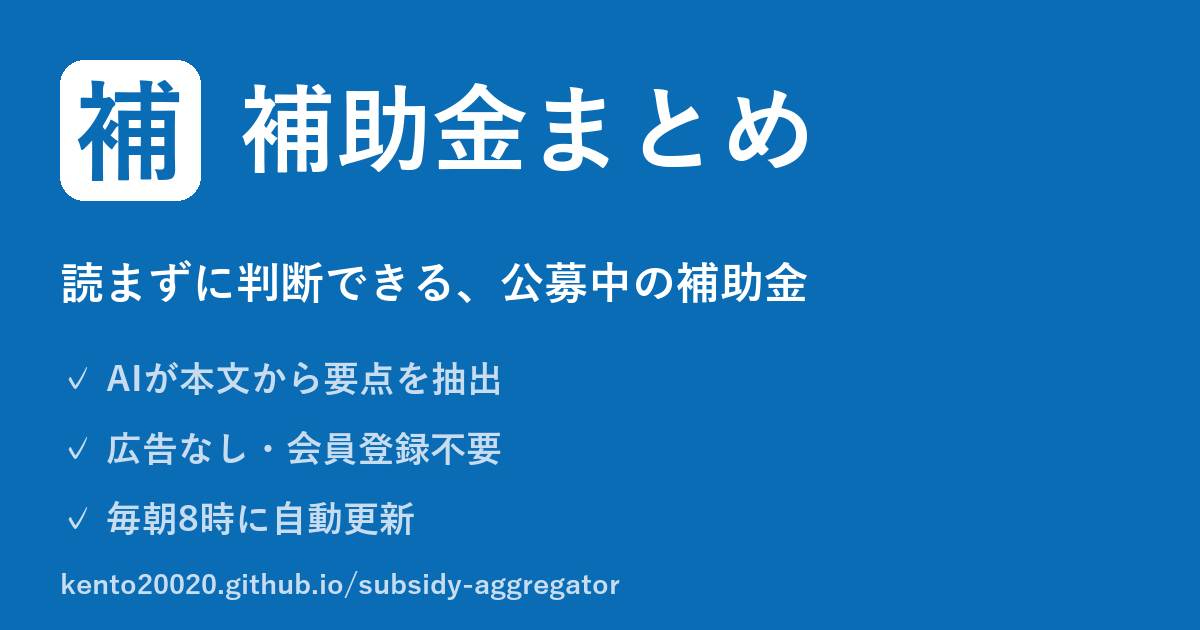
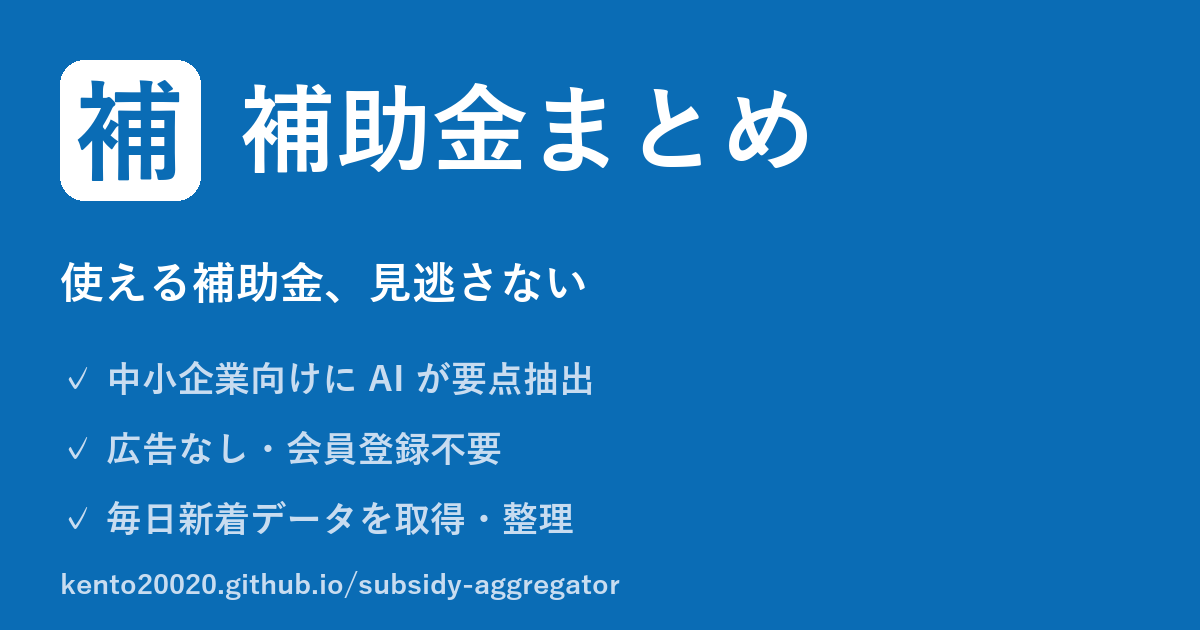
copy: align site copy with new positioning
- main copy: 「使える補助金、見逃さない」(SPEC v1.0.1)
- specify wedge user (中小企業の経営者・事業主) in description
- avoid 「毎朝届く」「自動通知」-style push wording
- regenerate OGP image with new tagline + bullets
- add .tagline css for index intro

Source of truth: subsidy-docs/SPEC_v1.0.md §1.1

Changed region(s): [[0.0308, 0.3921, 0.6783, 0.4825], [0.0925, 0.573, 0.4933, 0.6333], [0.1233, 0.7841, 0.4933, 0.8444]]

diff --git a/docs/about.html b/docs/about.html
@@ -13,14 +13,14 @@
   <meta property="og:type" content="website">
   <meta property="og:site_name" content="補助金まとめ">
   <meta property="og:title" content="このサイトについて・使い方 | 補助金まとめ">
-  <meta property="og:description" content="公募中の補助金をAIで要点抽出してまとめた、広告なし・会員登録不要のサイト。毎朝8時自動更新。">
+  <meta property="og:description" content="使える補助金、見逃さない。中小企業の経営者・事業主向けに公募中の補助金を AI が「対象/経費/書類/警告」で構造化。広告・会員登録なし。">
   <meta property="og:url" content="https://kento20020.github.io/subsidy-aggregator/about.html">
   <meta property="og:image" content="https://kento20020.github.io/subsidy-aggregator/og.png">
   <meta property="og:locale" content="ja_JP">
 
   <meta name="twitter:card" content="summary_large_image">
   <meta name="twitter:title" content="このサイトについて・使い方 | 補助金まとめ">
-  <meta name="twitter:description" content="公募中の補助金をAIで要点抽出してまとめた、広告なし・会員登録不要のサイト。毎朝8時自動更新。">
+  <meta name="twitter:description" content="使える補助金、見逃さない。中小企業の経営者・事業主向けに公募中の補助金を AI が「対象/経費/書類/警告」で構造化。広告・会員登録なし。">
   <meta name="twitter:image" content="https://kento20020.github.io/subsidy-aggregator/og.png">
 
   <link rel="stylesheet" href="style.css">
@@ -39,8 +39,9 @@
   <h1>このサイトについて</h1>
 
   <p class="lead">
+    <strong>「使える補助金、見逃さない」</strong> がコンセプト。
     日本国内の補助金・助成金（jGrants 公開API由来）を毎朝自動で収集し、
-    <strong>読まなくても3秒で判断できる形</strong> に整理した静的サイトです。
+    中小企業の経営者・事業主が「うちで使えるか」を本文を読まずに判定できる形に整理した静的サイトです。
     現在 <strong>50 件</strong> 掲載中。
   </p>
 
@@ -48,7 +49,7 @@
   <ul>
     <li><strong>広告なし・会員登録不要</strong> — トラッキング目的のCookieも使いません</li>
     <li><strong>AIが要点を整理</strong> — 公式PDFを読まなくても「対象者・対象経費・必要書類・注意点」が一目で分かります</li>
-    <li><strong>毎朝自動更新</strong> — GitHub Actions が 8:00 JST に更新を検知</li>
+    <li><strong>毎日データ更新</strong> — GitHub Actions が 8:00 JST に新着を取得・整理</li>
     <li><strong>既読カードは自動でグレーアウト</strong> — 新着・更新分だけが目立つ仕組み</li>
     <li><strong>オープンソース</strong> — コード・データ取得元すべて公開（<a href="https://github.com/kento20020/subsidy-aggregator" rel="noopener noreferrer">GitHub リポジトリ</a>）</li>
   </ul>

diff --git a/docs/index.html b/docs/index.html
@@ -13,18 +13,18 @@
   <meta property="og:type" content="website">
   <meta property="og:site_name" content="補助金まとめ">
   <meta property="og:title" content="補助金まとめ">
-  <meta property="og:description" content="公募中の補助金をAIで要点抽出してまとめた、広告なし・会員登録不要のサイト。毎朝8時自動更新。">
+  <meta property="og:description" content="使える補助金、見逃さない。中小企業の経営者・事業主向けに公募中の補助金を AI が「対象/経費/書類/警告」で構造化。広告・会員登録なし。">
   <meta property="og:url" content="https://kento20020.github.io/subsidy-aggregator/">
   <meta property="og:image" content="https://kento20020.github.io/subsidy-aggregator/og.png">
   <meta property="og:locale" content="ja_JP">
 
   <meta name="twitter:card" content="summary_large_image">
   <meta name="twitter:title" content="補助金まとめ">
-  <meta name="twitter:description" content="公募中の補助金をAIで要点抽出してまとめた、広告なし・会員登録不要のサイト。毎朝8時自動更新。">
+  <meta name="twitter:description" content="使える補助金、見逃さない。中小企業の経営者・事業主向けに公募中の補助金を AI が「対象/経費/書類/警告」で構造化。広告・会員登録なし。">
   <meta name="twitter:image" content="https://kento20020.github.io/subsidy-aggregator/og.png">
 
   <link rel="stylesheet" href="style.css">
-<script type="application/ld+json">{"@context": "https://schema.org", "@graph": [{"@type": "WebSite", "description": "\u516c\u52df\u4e2d\u306e\u88dc\u52a9\u91d1\u3092AI\u3067\u8981\u70b9\u62bd\u51fa\u3057\u3066\u307e\u3068\u3081\u305f\u3001\u5e83\u544a\u306a\u3057\u30fb\u4f1a\u54e1\u767b\u9332\u4e0d\u8981\u306e\u30b5\u30a4\u30c8\u3002\u6bce\u671d8\u6642\u81ea\u52d5\u66f4\u65b0\u3002", "inLanguage": "ja", "name": "\u88dc\u52a9\u91d1\u307e\u3068\u3081", "url": "https://kento20020.github.io/subsidy-aggregator/"}, {"@type": "ItemList", "itemListElement": [{"@type": "ListItem", "name": "\u3010\u74b0\u5883\u7701\u3011\u74b0\u5883\u4fdd\u5168\u7814\u7a76\u8cbb\u88dc\u52a9\u91d1\uff08\u30a4\u30ce\u30d9\u30fc\u30b7\u30e7\u30f3\u5275\u51fa\u306e\u305f\u3081\u306e\u74b0\u5883\u30b9\u30bf\u30fc\u30c8\u30a2\u30c3\u30d7\u7814\u7a76\u958b\u767a\u652f\u63f4\u4e8b\u696d\uff09\u30d5\u30a7\u30fc\u30ba3\uff08\u5927\u898f\u6a21\u6280\u8853\u958b\u767a\u5b9f\u8a3c\uff09\u652f\u63f4\u4e8b\u696d", "position": 1, "url": "https://kento20020.github.io/subsidy-aggregator/subsidies/jgrants-S-00009121.html"}, {"@type": "ListItem", "name": "\u3010\u74b0\u5883\u7701\u3011\u74b0\u5883\u4fdd\u5168\u7814\u7a76\u8cbb\u88dc\u52a9\u91d1\uff08\u30a4\u30ce\u30d9\u30fc\u30b7\u30e7\u30f3\u5275\u51fa\u306e\u305f\u3081\u306e\u74b0\u5883\u30b9\u30bf\u30fc\u30c8\u30a2\u30c3\u30d7\u7814\u7a76\u958b\u767a\u652f\u63f4\u4e8b\u696d\uff09\u30d5\u30a7\u30fc\u30ba2\uff08R\u0026D\uff09\u652f\u63f4\u4e8b\u696d", "position": 2, "url": "https://kento20020.github.io/subsidy-aggregator/subsidies/jgrants-S-00009120.html"}, {"@type": "ListItem", "name": "\u3010\u74b0\u5883\u7701\u3011\u74b0\u5883\u4fdd\u5168\u7814\u7a76\u8cbb\u88dc\u52a9\u91d1\uff08\u30a4\u30ce\u30d9\u30fc\u30b7\u30e7\u30f3\u5275\u51fa\u306e\u305f\u3081\u306e\u74b0\u5883\u30b9\u30bf\u30fc\u30c8\u30a2\u30c3\u30d7\u7814\u7a76\u958b\u767a\u652f\u63f4\u4e8b\u696d\uff09\u30d5\u30a7\u30fc\u30ba1\uff08F/S\u30fbPoC\uff09\u652f\u63f4\u4e8b\u696d", "position": 3, "url": "https://kento20020.github.io/subsidy-aggregator/subsidies/jgrants-S-00009118.html"}, {"@type": "ListItem", "name": "\u3010\u9577\u91ce\u770c\u3011\u4ee4\u548c\uff18\u5e74\u5ea6\u4e2d\u5c0f\u4f01\u696d\u7b49\u6d77\u5916\u5c55\u958b\u652f\u63f4\u4e8b\u696d\u8cbb\u88dc\u52a9\u91d1\uff08\u4e2d\u5c0f\u4f01\u696d\u7b49\u5916\u56fd\u51fa\u9858\u652f\u63f4\u4e8b\u696d\uff09", "position": 4, "url": "https://kento20020.github.io/subsidy-aggregator/subsidies/jgrants-S-00009065.html"}, {"@type": "ListItem", "name": "\u3010\u5343\u8449\u5e02\u7523\u696d\u632f\u8208\u8ca1\u56e3\u3011\u4ee4\u548c8\u5e74\u5ea6_\u4e2d\u5c0f\u4f01\u696d\u7b49\u6d77\u5916\u5c55\u958b\u652f\u63f4\u4e8b\u696d\u8cbb\u88dc\u52a9\u91d1\uff08\u6d77\u5916\u51fa\u9858\u652f\u63f4\u4e8b\u696d\uff09", "position": 5, "url": "https://kento20020.github.io/subsidy-aggregator/subsidies/jgrants-S-00009033.html"}, {"@type": "ListItem", "name": "\u3010\u4e09\u91cd\u770c \u9234\u9e7f\u5e02\u3011\u4ee4\u548c8\u5e74\u5ea6\u5275\u696d\u4fc3\u9032\u88dc\u52a9\u91d1", "position": 6, "url": "https://kento20020.github.io/subsidy-aggregator/subsidies/jgrants-S-00009101.html"}, {"@type": "ListItem", "name": "\u4ee4\u548c8\u5e74\u5ea6_\u30a2\u30a4\u30cc\u4e2d\u5c0f\u4f01\u696d\u632f\u8208\u5bfe\u7b56\u4e8b\u696d\u8cbb\u88dc\u52a9\u91d1", "position": 7, "url": "https://kento20020.github.io/subsidy-aggregator/subsidies/jgrants-S-00009099.html"}, {"@type": "ListItem", "name": "\u3010\u5c71\u53e3\u770c\u3011\u4ee4\u548c8\u5e74\u5ea6_\u4e2d\u5c0f\u4f01\u696d\u7b49\u6d77\u5916\u5c55\u958b\u652f\u63f4\u4e8b\u696d\u8cbb\u88dc\u52a9\u91d1\uff08\u6d77\u5916\u51fa\u9858\u652f\u63f4\u4e8b\u696d\uff09", "position": 8, "url": "https://kento20020.github.io/subsidy-aggregator/subsidies/jgrants-S-00009079.html"}, {"@type": "ListItem", "name": "\u3010\u5cf6\u6839\u770c\u3011\u4ee4\u548c8\u5e74\u5ea6_\u4e2d\u5c0f\u4f01\u696d\u7b49\u6d77\u5916\u5c55\u958b\u652f\u63f4\u4e8b\u696d\u8cbb\u88dc\u52a9\u91d1\uff08\u6d77\u5916\u51fa\u9858\u652f\u63f4\u4e8b\u696d\uff09", "position": 9, "url": "https://kento20020.github.io/subsidy-aggregator/subsidies/jgrants-S-00009095.html"}, {"@type": "ListItem", "name": "\u4ee4\u548c\uff18\u5e74\u5ea6\u300c\u5730\u57df\u306e\u4e2d\u5805\u30fb\u4e2d\u6838\u4f01\u696d\u652f\u63f4\u4e8b\u696d\uff08\u5730\u57df\u306e\u4eba\u4e8b\u90e8\u652f\u63f4\u4e8b\u696d\uff09\u300d\u88dc\u52a9\u4e8b\u696d\u8005\u516c\u52df", "position": 10, "url": "https://kento20020.github.io/subsidy-aggregator/subsidies/jgrants-S-00009061.html"}, {"@type": "ListItem", "name": "\u3010\u57fc\u7389\u770c\u3011\u4ee4\u548c\uff18\u5e74\u5ea6_\u4e2d\u5c0f\u4f01\u696d\u7b49\u6d77\u5916\u5c55\u958b\u652f\u63f4\u4e8b\u696d\u8cbb\u88dc\u52a9\u91d1\uff08\u6d77\u5916\u51fa\u9858\u652f\u63f4\u4e8b\u696d\uff09", "position": 11, "url": "https://kento20020.github.io/subsidy-aggregator/subsidies/jgrants-S-00009060.html"}, {"@type": "ListItem", "name": "\u3010\u308f\u304b\u3084\u307e\u7523\u696d\u632f\u8208\u8ca1\u56e3 \u3011\u4ee4\u548c\uff18\u5e74\u5ea6_\u4e2d\u5c0f\u4f01\u696d\u7b49\u6d77\u5916\u5c55\u958b\u652f\u63f4\u4e8b\u696d\u8cbb\u88dc\u52a9\u91d1\uff08\u6d77\u5916\u51fa\u9858\u652f\u63f4\u4e8b\u696d\uff09", "position": 12, "url": "https://kento20020.github.io/subsidy-aggregator/subsidies/jgrants-S-00009057.html"}, {"@type": "ListItem", "name": "\u591a\u6469\u5e02\u3075\u308b\u3055\u3068\u7d0d\u7a0e\u3092\u6d3b\u7528\u3057\u305f\u8cc7\u91d1\u8abf\u9054\u652f\u63f4\u4e8b\u696d\u88dc\u52a9\u91d1", "position": 13, "url": "https://kento20020.github.io/subsidy-aggregator/subsidies/jgrants-S-00009056.html"}, {"@type": "ListItem", "name": "\u3010\u9ce5\u53d6\u770c\u3011\u4ee4\u548c\uff18\u5e74\u5ea6_\u4e2d\u5c0f\u4f01\u696d\u7b49\u6d77\u5916\u5c55\u958b\u652f\u63f4\u4e8b\u696d\u8cbb\u88dc\u52a9\u91d1\uff08\u6d77\u5916\u51fa\u9858\u652f\u63f4\u4e8b\u696d\uff09", "position": 14, "url": "https://kento20020.github.io/subsidy-aggregator/subsidies/jgrants-S-00009054.html"}, {"@type": "ListItem", "name": "2026\u5e74\u5ea6\u300c\u4e2d\u5c0f\u4f01\u696d\u7af6\u4e89\u529b\u5f37\u5316\u4fc3\u9032\u4e8b\u696d\u696d\u300d\uff08\u5e02\u5834\u5bfe\u5fdc\u578b\u88fd\u54c1\u958b\u767a\u652f\u63f4\u4e8b\u696d\u3010\u4e00\u822c\u3011\uff09", "position": 15, "url": "https://kento20020.github.io/subsidy-aggregator/subsidies/jgrants-S-00009047.html"}, {"@type": "ListItem", "name": "2026\u5e74\u5ea6\u300c\u4e2d\u5c0f\u4f01\u696d\u7af6\u4e89\u529b\u5f37\u5316\u4fc3\u9032\u4e8b\u696d\u696d\u300d\uff08\u7523\u696d\u4eba\u6750\u80b2\u6210\u652f\u63f4\u4e8b\u696d\u3010\u30c6\u30ec\u30ef\u30fc\u30af\u5c0e\u5165\u3011\uff09", "position": 16, "url": "https://kento20020.github.io/subsidy-aggregator/subsidies/jgrants-S-00009045.html"}, {"@type": "ListItem", "name": "2026\u5e74\u5ea6\u300c\u4e2d\u5c0f\u4f01\u696d\u7af6\u4e89\u529b\u5f37\u5316\u4fc3\u9032\u4e8b\u696d\u696d\u300d\uff08\u7523\u696d\u4eba\u6750\u80b2\u6210\u652f\u63f4\u4e8b\u696d\u3010\u6d3e\u9063\u3011\uff09", "position": 17, "url": "https://kento20020.github.io/subsidy-aggregator/subsidies/jgrants-S-00009041.html"}, {"@type": "ListItem", "name": "2026\u5e74\u5ea6\u300c\u4e2d\u5c0f\u4f01\u696d\u7af6\u4e89\u529b\u5f37\u5316\u4fc3\u9032\u4e8b\u696d\u696d\u300d\uff08\u30de\u30fc\u30b1\u30c6\u30a3\u30f3\u30b0\u652f\u63f4\u4e8b\u696d\uff09", "position": 18, "url": "https://kento20020.github.io/subsidy-aggregator/subsidies/jgrants-S-00009038.html"}, {"@type": "ListItem", "name": "\u3010\u4eac\u90fd\u7523\u696d21\u3011\u4ee4\u548c8\u5e74\u5ea6_\u4e2d\u5c0f\u4f01\u696d\u7b49\u6d77\u5916\u5c55\u958b\u652f\u63f4\u4e8b\u696d\u8cbb\u88dc\u52a9\u91d1\uff08\u6d77\u5916\u51fa\u9858\u652f\u63f4\u4e8b\u696d\uff09", "position": 19, "url": "https://kento20020.github.io/subsidy-aggregator/subsidies/jgrants-S-00009032.html"}, {"@type": "ListItem", "name": "\u3010\u6ecb\u8cc0\u770c\u7523\u696d\u652f\u63f4\u30d7\u30e9\u30b6\u3011\u4ee4\u548c8\u5e74\u5ea6_\u4e2d\u5c0f\u4f01\u696d\u7b49\u6d77\u5916\u5c55\u958b\u652f\u63f4\u4e8b\u696d\u8cbb\u88dc\u52a9\u91d1\uff08\u6d77\u5916\u51fa\u9858\u652f\u63f4\u4e8b\u696d\uff09", "position": 20, "url": "https://kento20020.github.io/subsidy-aggregator/subsidies/jgrants-S-00009030.html"}, {"@type": "ListItem", "name": "\u3010\u3075\u304f\u3044\u7523\u696d\u652f\u63f4\u30bb\u30f3\u30bf\u30fc\u3011\u4ee4\u548c\uff18\u5e74\u5ea6_\u4e2d\u5c0f\u4f01\u696d\u7b49\u6d77\u5916\u5c55\u958b\u652f\u63f4\u4e8b\u696d\u8cbb\u88dc\u52a9\u91d1\uff08\u6d77\u5916\u51fa\u9858\u652f\u63f4\u4e8b\u696d\uff09", "position": 21, "url": "https://kento20020.github.io/subsidy-aggregator/subsidies/jgrants-S-00009029.html"}, {"@type": "ListItem", "name": "\u3010\u8fb2\u6797\u6c34\u7523\u7701\u3011\u98df\u54c1\u7b49\u7269\u6d41\u5408\u7406\u5316\u7dca\u6025\u5bfe\u7b56\u4e8b\u696d\u306e\u3046\u3061\u8f38\u51fa\u7269\u6d41\u69cb\u7bc9\u4e8b\u696d\uff08\u9593\u63a5\u88dc\u52a9\u4e8b\u696d\u8005\u516c\u52df\uff09", "position": 22, "url": "https://kento20020.github.io/subsidy-aggregator/subsidies/jgrants-S-00009015.html"}, {"@type": "ListItem", "name": "\u3010\u8fb2\u6797\u6c34\u7523\u7701\u3011\u98df\u54c1\u7b49\u7269\u6d41\u5408\u7406\u5316\u7dca\u6025\u5bfe\u7b56\u4e8b\u696d\u306e\u3046\u3061\u7269\u6d41\u751f\u7523\u6027\u5411\u4e0a\u63a8\u9032\u4e8b\u696d\uff08\u9593\u63a5\u88dc\u52a9\u4e8b\u696d\u8005\u516c\u52df\uff09", "position": 23, "url": "https://kento20020.github.io/subsidy-aggregator/subsidies/jgrants-S-00009014.html"}, {"@type": "ListItem", "name": "\u4ee4\u548c8\u5e74\u5ea6\u30102\u5e74\u76ee\u7533\u8acb\u7528\u3011ES\uff08\u793e\u54e1\u6e80\u8db3\u5ea6\uff09\u5411\u4e0a\u306b\u3088\u308b\u82e5\u624b\u4eba\u6750\u78ba\u4fdd\u30fb\u5b9a\u7740\u4e8b\u696d\u52a9\u6210\u91d1", "position": 24, "url": "https://kento20020.github.io/subsidy-aggregator/subsidies/jgrants-S-00009011.html"}, {"@type": "ListItem", "name": "\u4ee4\u548c8\u5e74\u5ea6\u30103\u5e74\u76ee\u7533\u8acb\u7528\u3011ES\uff08\u793e\u54e1\u6e80\u8db3\u5ea6\uff09\u5411\u4e0a\u306b\u3088\u308b\u82e5\u624b\u4eba\u6750\u78ba\u4fdd\u30fb\u5b9a\u7740\u4e8b\u696d\u52a9\u6210\u91d1", "position": 25, "url": "https://kento20020.github.io/subsidy-aggregator/subsidies/jgrants-S-00009009.html"}, {"@type": "ListItem", "name": "\u3010\u5343\u8449\u770c\u3011\u4ee4\u548c\uff18\u5e74\u5ea6\u300c\u4e2d\u5c0f\u4f01\u696d\u7b49\u6d77\u5916\u5c55\u958b\u652f\u63f4\u4e8b\u696d\u8cbb\u88dc\u52a9\u91d1\uff08\u6d77\u5916\u51fa\u9858\u652f\u63f4\u4e8b\u696d\uff09\u300d", "position": 26, "url": "https://kento20020.github.io/subsidy-aggregator/subsidies/jgrants-S-00008999.html"}, {"@type": "ListItem", "name": "\u3010\u7d4c\u6e08\u7523\u696d\u7701\u3011\u3082\u306e\u3065\u304f\u308a\u30fb\u5546\u696d\u30fb\u30b5\u30fc\u30d3\u30b9\u751f\u7523\u6027\u5411\u4e0a\u4fc3\u9032\u88dc\u52a9\u91d1\uff0822\u6b21\u7de0\u5207\uff09", "position": 27, "url": "https://kento20020.github.io/subsidy-aggregator/subsidies/jgrants-S-00008989.html"}, {"@type": "ListItem", "name": "\u4ee4\u548c8\u5e74\u5ea6\u300cGX\u6226\u7565\u5730\u57df\u5236\u5ea6\u306b\u304a\u3051\u308b\u30b3\u30f3\u30d3\u30ca\u30fc\u30c8\u7b49\u518d\u751f\u306b\u5411\u3051\u305f \u4e8b\u696d\u5316\u4fc3\u9032\u4e8b\u696d\u300d\u306b\u4fc2\u308b\u9593\u63a5\u88dc\u52a9\u4e8b\u696d\u8005\u306e\u516c\u52df", "position": 28, "url": "https://kento20020.github.io/subsidy-aggregator/subsidies/jgrants-S-00008982.html"}, {"@type": "ListItem", "name": "\u3010\u4ee4\u548c\uff18\u5e74\u5ea6\u5f53\u521d\u3011\u56fd\u7acb\u516c\u5712\u7b49\u591a\u8a00\u8a9e\u89e3\u8aac\u7b49\u6574\u5099\u4e8b\u696d\uff08\u56fd\u7acb\u516c\u5712\u7b49\u8cc7\u6e90\u6574\u5099\u4e8b\u696d\u8cbb\u88dc\u52a9\u91d1\uff09", "position": 29, "url": "https://kento20020.github.io/subsidy-aggregator/subsidies/jgrants-S-00008981.html"}, {"@type": "ListItem", "name": "\u3010\u4e8b\u524d\u7740\u624b\u5c4a\u51fa\u3011\u4ee4\u548c\uff18\u5e74\u5ea6GX\u6226\u7565\u5730\u57df\u5236\u5ea6\u306b\u304a\u3051\u308b\u30b3\u30f3\u30d3\u30ca\u30fc\u30c8\u7b49\u518d\u751f\u306b\u5411\u3051\u305f\u4e8b\u696d\u5316\u4fc3\u9032\u4e8b\u696d\uff08\u30b3\u30f3\u30d3\u30ca\u30fc\u30c8\u7b49\u518d\u751fPre-FEED\u88dc\u52a9\u91d1\uff09", "position": 30, "url": "https://kento20020.github.io/subsidy-aggregator/subsidies/jgrants-S-00008980.html"}, {"@type": "ListItem", "name": "\u798f\u5cf6\u770c\u4e2d\u5c0f\u4f01\u696d\u7279\u5225\u9ad8\u5727\u96fb\u6c17\u6599\u91d1\u652f\u63f4\u88dc\u52a9\u91d1", "position": 31, "url": "https://kento20020.github.io/subsidy-aggregator/subsidies/jgrants-S-00008971.html"}, {"@type": "ListItem", "name": "2026\u5e74\u5ea6\u300c\u6d77\u5916\u51fa\u9858\u652f\u63f4\u4e8b\u696d\u300d", "position": 32, "url": "https://kento20020.github.io/subsidy-aggregator/subsidies/jgrants-S-00008969.html"}, {"@type": "ListItem", "name": "\u53e4\u8cc0\u5e02\u4e2d\u5c0f\u4f01\u696d\u7b49\u5411\u3051\u592a\u967d\u5149\u767a\u96fb\u8a2d\u5099\u5c0e\u5165\u88dc\u52a9\u91d1", "position": 33, "url": "https://kento20020.github.io/subsidy-aggregator/subsidies/jgrants-S-00008944.html"}, {"@type": "ListItem", "name": "\u53e4\u8cc0\u5e02\u6e29\u5ba4\u52b9\u679c\u30ac\u30b9\u6392\u51fa\u91cf\u53ef\u8996\u5316\u30b7\u30b9\u30c6\u30e0\u5c0e\u5165\u8cbb\u88dc\u52a9\u91d1", "position": 34, "url": "https://kento20020.github.io/subsidy-aggregator/subsidies/jgrants-S-00008943.html"}, {"@type": "ListItem", "name": "\u3010\u611b\u77e5\u770c\u3011\u4ee4\u548c\uff18\u5e74\u5ea6_\u4e2d\u5c0f\u4f01\u696d\u7b49\u6d77\u5916\u5c55\u958b\u652f\u63f4\u4e8b\u696d\u8cbb\u88dc\u52a9\u91d1\uff08\u6d77\u5916\u51fa\u9858\u652f\u63f4\u4e8b\u696d\uff09", "position": 35, "url": "https://kento20020.github.io/subsidy-aggregator/subsidies/jgrants-S-00008921.html"}, {"@type": "ListItem", "name": "\u4ee4\u548c\uff18\u5e74\u5ea6\u30d8\u30eb\u30b9\u30b1\u30a2\u7523\u696d\u56fd\u969b\u5c55\u958b\u63a8\u9032\u4e8b\u696d\u8cbb\u88dc\u52a9\u91d1", "position": 36, "url": "https://kento20020.github.io/subsidy-aggregator/subsidies/jgrants-S-00008920.html"}, {"@type": "ListItem", "name": "\u3010\u5948\u826f\u770c\u5730\u57df\u7523\u696d\u632f\u8208\u30bb\u30f3\u30bf\u30fc\u3011\u4ee4\u548c8\u5e74\u5ea6_\u4e2d\u5c0f\u4f01\u696d\u7b49\u6d77\u5916\u5c55\u958b\u652f\u63f4\u4e8b\u696d\u8cbb\u88dc\u52a9\u91d1\uff08\u6d77\u5916\u51fa\u9858\u652f\u63f4\u4e8b\u696d\uff09", "position": 37, "url": "https://kento20020.github.io/subsidy-aggregator/subsidies/jgrants-S-00008919.html"}, {"@type": "ListItem", "name": "\u3010\u798f\u5ca1\u770c\u3011\u4ee4\u548c8\u5e74\u5ea6_\u4e2d\u5c0f\u4f01\u696d\u7b49\u6d77\u5916\u5c55\u958b\u652f\u63f4\u4e8b\u696d\u8cbb\u88dc\u52a9\u91d1\uff08\u6d77\u5916\u51fa\u9858\u652f\u63f4\u4e8b\u696d\uff09", "position": 38, "url": "https://kento20020.github.io/subsidy-aggregator/subsidies/jgrants-S-00008918.html"}, {"@type": "ListItem", "name": "\u3010\u4ee4\u548c\uff18\u5e74\u5ea6\u5f53\u521d\u3011\u56fd\u7acb\u516c\u5712\u7b49\u5229\u7528\u62e0\u70b9\u6ede\u5728\u74b0\u5883\u7b49\u4e0a\u8cea\u5316\u4e8b\u696d\uff08\u56fd\u7acb\u516c\u5712\u7b49\u8cc7\u6e90\u6574\u5099\u4e8b\u696d\u8cbb\u88dc\u52a9\u91d1\uff09", "position": 39, "url": "https://kento20020.github.io/subsidy-aggregator/subsidies/jgrants-S-00008910.html"}, {"@type": "ListItem", "name": "\u3084\u307e\u3050\u3061\u81ea\u52d5\u8eca\u7523\u696d\u96fb\u52d5\u5316\u30a4\u30ce\u30d9\u30fc\u30b7\u30e7\u30f3\u7b49\u4fc3\u9032\u88dc\u52a9\u91d1", "position": 40, "url": "https://kento20020.github.io/subsidy-aggregator/subsidies/jgrants-S-00008905.html"}, {"@type": "ListItem", "name": "\u3084\u307e\u3050\u3061\u81ea\u52d5\u8eca\u7523\u696d\u96fb\u52d5\u5316\u30a4\u30ce\u30d9\u30fc\u30b7\u30e7\u30f3\u7b49\u4fc3\u9032\u88dc\u52a9\u91d1", "position": 41, "url": "https://kento20020.github.io/subsidy-aggregator/subsidies/jgrants-S-00008904.html"}, {"@type": "ListItem", "name": "\u3010\u5c90\u961c\u770c\u3011\u4ee4\u548c\uff18\u5e74\u5ea6_\u4e2d\u5c0f\u4f01\u696d\u7b49\u6d77\u5916\u5c55\u958b\u652f\u63f4\u4e8b\u696d\u8cbb\u88dc\u52a9\u91d1\uff08\u6d77\u5916\u51fa\u9858\u652f\u63f4\u4e8b\u696d\uff09", "position": 42, "url": "https://kento20020.github.io/subsidy-aggregator/subsidies/jgrants-S-00008888.html"}, {"@type": "ListItem", "name": "\u4ee4\u548c\uff18\u5e74\u5ea6 \u6c34\u529b\u767a\u96fb\u5c0e\u5165\u4fc3\u9032\u652f\u63f4\u4e8b\u696d\u8cbb\u88dc\u52a9\u91d1\uff08\u65e2\u5b58\u8a2d\u5099\u6709\u52b9\u6d3b\u7528\u5f37\u5316\u652f\u63f4\u4e8b\u696d\uff09\u516c\u52df", "position": 43, "url": "https://kento20020.github.io/subsidy-aggregator/subsidies/jgrants-S-00008881.html"}, {"@type": "ListItem", "name": "\u4ee4\u548c\uff18\u5e74\u5ea6\u56fd\u969b\u30eb\u30fc\u30eb\u5f62\u6210\u30fb\u5e02\u5834\u5275\u9020\u578b\u6a19\u6e96\u5316\u63a8\u9032\u4e8b\u696d\u8cbb\u88dc\u52a9\u91d1", "position": 44, "url": "https://kento20020.github.io/subsidy-aggregator/subsidies/jgrants-S-00008879.html"}, {"@type": "ListItem", "name": "\u3010\u9759\u5ca1\u770c\u3011\u4ee4\u548c8\u5e74\u5ea6_\u4e2d\u5c0f\u4f01\u696d\u7b49\u6d77\u5916\u5c55\u958b\u652f\u63f4\u4e8b\u696d\u8cbb\u88dc\u52a9\u91d1\uff08\u6d77\u5916\u51fa\u9858\u652f\u63f4\u4e8b\u696d\uff09", "position": 45, "url": "https://kento20020.github.io/subsidy-aggregator/subsidies/jgrants-S-00008876.html"}, {"@type": "ListItem", "name": "\u4ee4\u548c\uff18\u5e74\u5ea6\u300c\u6c34\u529b\u767a\u96fb\u5c0e\u5165\u4fc3\u9032\u652f\u63f4\u4e8b\u696d\u8cbb\u88dc\u52a9\u91d1\uff08\u4e8b\u696d\u6027\u8a55\u4fa1\u652f\u63f4\u4e8b\u696d\uff09\u300d\uff08\u65b0\u898f\u4e8b\u696d \uff11\u6b21\u7de0\u5207\u5206\uff09", "position": 46, "url": "https://kento20020.github.io/subsidy-aggregator/subsidies/jgrants-S-00008874.html"}, {"@type": "ListItem", "name": "\u4ee4\u548c\uff18\u5e74\u5ea6\u7cbe\u795e\u79d1\u533b\u7642\u4f53\u5236\u78ba\u4fdd\u7814\u4fee\u4e8b\u696d\u8cbb\u88dc\u52a9\u91d1", "position": 47, "url": "https://kento20020.github.io/subsidy-aggregator/subsidies/jgrants-S-00008872.html"}, {"@type": "ListItem", "name": "\u5317\u4e5d\u5dde\u5e02\u74b0\u5883\u672a\u6765\u30d3\u30b8\u30cd\u30b9\u5275\u51fa\u52a9\u6210\u91d1", "position": 48, "url": "https://kento20020.github.io/subsidy-aggregator/subsidies/jgrants-S-00008861.html"}, {"@type": "ListItem", "name": "\u4ee4\u548c\uff18\u5e74\u5ea6\u30b9\u30dd\u30fc\u30c4\u30a8\u30f3\u30bf\u30fc\u30c6\u30a4\u30f3\u30e1\u30f3\u30c8\u30fb\u30b3\u30f3\u30c6\u30f3\u30c4\u6d77\u5916\u5c55\u958b\u652f\u63f4\u4e8b\u696d\u8cbb\u88dc\u52a9\u91d1", "position": 49, "url": "https://kento20020.github.io/subsidy-aggregator/subsidies/jgrants-S-00008855.html"}, {"@type": "ListItem", "name": "\u4ee4\u548c\uff18\u5e74\u5ea6 \u30b3\u30fc\u30eb\u30c9\u30c1\u30a7\u30fc\u30f3\u3092\u652f\u3048\u308b\u51b7\u51cd\u51b7\u8535\u6a5f\u5668\u306e\u8131\u30d5\u30ed\u30f3\u30fb\u8131\u70ad\u7d20\u5316\u63a8\u9032\u4e8b\u696d", "position": 50, "url": "https://kento20020.github.io/subsidy-aggregator/subsidies/jgrants-S-00008854.html"}], "name": "\u88dc\u52a9\u91d1\u307e\u3068\u3081 \u88dc\u52a9\u91d1\u4e00\u89a7", "numberOfItems": 50}]}</script>
+<script type="application/ld+json">{"@context": "https://schema.org", "@graph": [{"@type": "WebSite", "description": "\u4f7f\u3048\u308b\u88dc\u52a9\u91d1\u3001\u898b\u9003\u3055\u306a\u3044\u3002\u4e2d\u5c0f\u4f01\u696d\u306e\u7d4c\u55b6\u8005\u30fb\u4e8b\u696d\u4e3b\u5411\u3051\u306b\u516c\u52df\u4e2d\u306e\u88dc\u52a9\u91d1\u3092 AI \u304c\u300c\u5bfe\u8c61/\u7d4c\u8cbb/\u66f8\u985e/\u8b66\u544a\u300d\u3067\u69cb\u9020\u5316\u3002\u5e83\u544a\u30fb\u4f1a\u54e1\u767b\u9332\u306a\u3057\u3002", "inLanguage": "ja", "name": "\u88dc\u52a9\u91d1\u307e\u3068\u3081", "url": "https://kento20020.github.io/subsidy-aggregator/"}, {"@type": "ItemList", "itemListElement": [{"@type": "ListItem", "name": "\u3010\u74b0\u5883\u7701\u3011\u74b0\u5883\u4fdd\u5168\u7814\u7a76\u8cbb\u88dc\u52a9\u91d1\uff08\u30a4\u30ce\u30d9\u30fc\u30b7\u30e7\u30f3\u5275\u51fa\u306e\u305f\u3081\u306e\u74b0\u5883\u30b9\u30bf\u30fc\u30c8\u30a2\u30c3\u30d7\u7814\u7a76\u958b\u767a\u652f\u63f4\u4e8b\u696d\uff09\u30d5\u30a7\u30fc\u30ba3\uff08\u5927\u898f\u6a21\u6280\u8853\u958b\u767a\u5b9f\u8a3c\uff09\u652f\u63f4\u4e8b\u696d", "position": 1, "url": "https://kento20020.github.io/subsidy-aggregator/subsidies/jgrants-S-00009121.html"}, {"@type": "ListItem", "name": "\u3010\u74b0\u5883\u7701\u3011\u74b0\u5883\u4fdd\u5168\u7814\u7a76\u8cbb\u88dc\u52a9\u91d1\uff08\u30a4\u30ce\u30d9\u30fc\u30b7\u30e7\u30f3\u5275\u51fa\u306e\u305f\u3081\u306e\u74b0\u5883\u30b9\u30bf\u30fc\u30c8\u30a2\u30c3\u30d7\u7814\u7a76\u958b\u767a\u652f\u63f4\u4e8b\u696d\uff09\u30d5\u30a7\u30fc\u30ba2\uff08R\u0026D\uff09\u652f\u63f4\u4e8b\u696d", "position": 2, "url": "https://kento20020.github.io/subsidy-aggregator/subsidies/jgrants-S-00009120.html"}, {"@type": "ListItem", "name": "\u3010\u74b0\u5883\u7701\u3011\u74b0\u5883\u4fdd\u5168\u7814\u7a76\u8cbb\u88dc\u52a9\u91d1\uff08\u30a4\u30ce\u30d9\u30fc\u30b7\u30e7\u30f3\u5275\u51fa\u306e\u305f\u3081\u306e\u74b0\u5883\u30b9\u30bf\u30fc\u30c8\u30a2\u30c3\u30d7\u7814\u7a76\u958b\u767a\u652f\u63f4\u4e8b\u696d\uff09\u30d5\u30a7\u30fc\u30ba1\uff08F/S\u30fbPoC\uff09\u652f\u63f4\u4e8b\u696d", "position": 3, "url": "https://kento20020.github.io/subsidy-aggregator/subsidies/jgrants-S-00009118.html"}, {"@type": "ListItem", "name": "\u3010\u9577\u91ce\u770c\u3011\u4ee4\u548c\uff18\u5e74\u5ea6\u4e2d\u5c0f\u4f01\u696d\u7b49\u6d77\u5916\u5c55\u958b\u652f\u63f4\u4e8b\u696d\u8cbb\u88dc\u52a9\u91d1\uff08\u4e2d\u5c0f\u4f01\u696d\u7b49\u5916\u56fd\u51fa\u9858\u652f\u63f4\u4e8b\u696d\uff09", "position": 4, "url": "https://kento20020.github.io/subsidy-aggregator/subsidies/jgrants-S-00009065.html"}, {"@type": "ListItem", "name": "\u3010\u5343\u8449\u5e02\u7523\u696d\u632f\u8208\u8ca1\u56e3\u3011\u4ee4\u548c8\u5e74\u5ea6_\u4e2d\u5c0f\u4f01\u696d\u7b49\u6d77\u5916\u5c55\u958b\u652f\u63f4\u4e8b\u696d\u8cbb\u88dc\u52a9\u91d1\uff08\u6d77\u5916\u51fa\u9858\u652f\u63f4\u4e8b\u696d\uff09", "position": 5, "url": "https://kento20020.github.io/subsidy-aggregator/subsidies/jgrants-S-00009033.html"}, {"@type": "ListItem", "name": "\u3010\u4e09\u91cd\u770c \u9234\u9e7f\u5e02\u3011\u4ee4\u548c8\u5e74\u5ea6\u5275\u696d\u4fc3\u9032\u88dc\u52a9\u91d1", "position": 6, "url": "https://kento20020.github.io/subsidy-aggregator/subsidies/jgrants-S-00009101.html"}, {"@type": "ListItem", "name": "\u4ee4\u548c8\u5e74\u5ea6_\u30a2\u30a4\u30cc\u4e2d\u5c0f\u4f01\u696d\u632f\u8208\u5bfe\u7b56\u4e8b\u696d\u8cbb\u88dc\u52a9\u91d1", "position": 7, "url": "https://kento20020.github.io/subsidy-aggregator/subsidies/jgrants-S-00009099.html"}, {"@type": "ListItem", "name": "\u3010\u5c71\u53e3\u770c\u3011\u4ee4\u548c8\u5e74\u5ea6_\u4e2d\u5c0f\u4f01\u696d\u7b49\u6d77\u5916\u5c55\u958b\u652f\u63f4\u4e8b\u696d\u8cbb\u88dc\u52a9\u91d1\uff08\u6d77\u5916\u51fa\u9858\u652f\u63f4\u4e8b\u696d\uff09", "position": 8, "url": "https://kento20020.github.io/subsidy-aggregator/subsidies/jgrants-S-00009079.html"}, {"@type": "ListItem", "name": "\u3010\u5cf6\u6839\u770c\u3011\u4ee4\u548c8\u5e74\u5ea6_\u4e2d\u5c0f\u4f01\u696d\u7b49\u6d77\u5916\u5c55\u958b\u652f\u63f4\u4e8b\u696d\u8cbb\u88dc\u52a9\u91d1\uff08\u6d77\u5916\u51fa\u9858\u652f\u63f4\u4e8b\u696d\uff09", "position": 9, "url": "https://kento20020.github.io/subsidy-aggregator/subsidies/jgrants-S-00009095.html"}, {"@type": "ListItem", "name": "\u4ee4\u548c\uff18\u5e74\u5ea6\u300c\u5730\u57df\u306e\u4e2d\u5805\u30fb\u4e2d\u6838\u4f01\u696d\u652f\u63f4\u4e8b\u696d\uff08\u5730\u57df\u306e\u4eba\u4e8b\u90e8\u652f\u63f4\u4e8b\u696d\uff09\u300d\u88dc\u52a9\u4e8b\u696d\u8005\u516c\u52df", "position": 10, "url": "https://kento20020.github.io/subsidy-aggregator/subsidies/jgrants-S-00009061.html"}, {"@type": "ListItem", "name": "\u3010\u57fc\u7389\u770c\u3011\u4ee4\u548c\uff18\u5e74\u5ea6_\u4e2d\u5c0f\u4f01\u696d\u7b49\u6d77\u5916\u5c55\u958b\u652f\u63f4\u4e8b\u696d\u8cbb\u88dc\u52a9\u91d1\uff08\u6d77\u5916\u51fa\u9858\u652f\u63f4\u4e8b\u696d\uff09", "position": 11, "url": "https://kento20020.github.io/subsidy-aggregator/subsidies/jgrants-S-00009060.html"}, {"@type": "ListItem", "name": "\u3010\u308f\u304b\u3084\u307e\u7523\u696d\u632f\u8208\u8ca1\u56e3 \u3011\u4ee4\u548c\uff18\u5e74\u5ea6_\u4e2d\u5c0f\u4f01\u696d\u7b49\u6d77\u5916\u5c55\u958b\u652f\u63f4\u4e8b\u696d\u8cbb\u88dc\u52a9\u91d1\uff08\u6d77\u5916\u51fa\u9858\u652f\u63f4\u4e8b\u696d\uff09", "position": 12, "url": "https://kento20020.github.io/subsidy-aggregator/subsidies/jgrants-S-00009057.html"}, {"@type": "ListItem", "name": "\u591a\u6469\u5e02\u3075\u308b\u3055\u3068\u7d0d\u7a0e\u3092\u6d3b\u7528\u3057\u305f\u8cc7\u91d1\u8abf\u9054\u652f\u63f4\u4e8b\u696d\u88dc\u52a9\u91d1", "position": 13, "url": "https://kento20020.github.io/subsidy-aggregator/subsidies/jgrants-S-00009056.html"}, {"@type": "ListItem", "name": "\u3010\u9ce5\u53d6\u770c\u3011\u4ee4\u548c\uff18\u5e74\u5ea6_\u4e2d\u5c0f\u4f01\u696d\u7b49\u6d77\u5916\u5c55\u958b\u652f\u63f4\u4e8b\u696d\u8cbb\u88dc\u52a9\u91d1\uff08\u6d77\u5916\u51fa\u9858\u652f\u63f4\u4e8b\u696d\uff09", "position": 14, "url": "https://kento20020.github.io/subsidy-aggregator/subsidies/jgrants-S-00009054.html"}, {"@type": "ListItem", "name": "2026\u5e74\u5ea6\u300c\u4e2d\u5c0f\u4f01\u696d\u7af6\u4e89\u529b\u5f37\u5316\u4fc3\u9032\u4e8b\u696d\u696d\u300d\uff08\u5e02\u5834\u5bfe\u5fdc\u578b\u88fd\u54c1\u958b\u767a\u652f\u63f4\u4e8b\u696d\u3010\u4e00\u822c\u3011\uff09", "position": 15, "url": "https://kento20020.github.io/subsidy-aggregator/subsidies/jgrants-S-00009047.html"}, {"@type": "ListItem", "name": "2026\u5e74\u5ea6\u300c\u4e2d\u5c0f\u4f01\u696d\u7af6\u4e89\u529b\u5f37\u5316\u4fc3\u9032\u4e8b\u696d\u696d\u300d\uff08\u7523\u696d\u4eba\u6750\u80b2\u6210\u652f\u63f4\u4e8b\u696d\u3010\u30c6\u30ec\u30ef\u30fc\u30af\u5c0e\u5165\u3011\uff09", "position": 16, "url": "https://kento20020.github.io/subsidy-aggregator/subsidies/jgrants-S-00009045.html"}, {"@type": "ListItem", "name": "2026\u5e74\u5ea6\u300c\u4e2d\u5c0f\u4f01\u696d\u7af6\u4e89\u529b\u5f37\u5316\u4fc3\u9032\u4e8b\u696d\u696d\u300d\uff08\u7523\u696d\u4eba\u6750\u80b2\u6210\u652f\u63f4\u4e8b\u696d\u3010\u6d3e\u9063\u3011\uff09", "position": 17, "url": "https://kento20020.github.io/subsidy-aggregator/subsidies/jgrants-S-00009041.html"}, {"@type": "ListItem", "name": "2026\u5e74\u5ea6\u300c\u4e2d\u5c0f\u4f01\u696d\u7af6\u4e89\u529b\u5f37\u5316\u4fc3\u9032\u4e8b\u696d\u696d\u300d\uff08\u30de\u30fc\u30b1\u30c6\u30a3\u30f3\u30b0\u652f\u63f4\u4e8b\u696d\uff09", "position": 18, "url": "https://kento20020.github.io/subsidy-aggregator/subsidies/jgrants-S-00009038.html"}, {"@type": "ListItem", "name": "\u3010\u4eac\u90fd\u7523\u696d21\u3011\u4ee4\u548c8\u5e74\u5ea6_\u4e2d\u5c0f\u4f01\u696d\u7b49\u6d77\u5916\u5c55\u958b\u652f\u63f4\u4e8b\u696d\u8cbb\u88dc\u52a9\u91d1\uff08\u6d77\u5916\u51fa\u9858\u652f\u63f4\u4e8b\u696d\uff09", "position": 19, "url": "https://kento20020.github.io/subsidy-aggregator/subsidies/jgrants-S-00009032.html"}, {"@type": "ListItem", "name": "\u3010\u6ecb\u8cc0\u770c\u7523\u696d\u652f\u63f4\u30d7\u30e9\u30b6\u3011\u4ee4\u548c8\u5e74\u5ea6_\u4e2d\u5c0f\u4f01\u696d\u7b49\u6d77\u5916\u5c55\u958b\u652f\u63f4\u4e8b\u696d\u8cbb\u88dc\u52a9\u91d1\uff08\u6d77\u5916\u51fa\u9858\u652f\u63f4\u4e8b\u696d\uff09", "position": 20, "url": "https://kento20020.github.io/subsidy-aggregator/subsidies/jgrants-S-00009030.html"}, {"@type": "ListItem", "name": "\u3010\u3075\u304f\u3044\u7523\u696d\u652f\u63f4\u30bb\u30f3\u30bf\u30fc\u3011\u4ee4\u548c\uff18\u5e74\u5ea6_\u4e2d\u5c0f\u4f01\u696d\u7b49\u6d77\u5916\u5c55\u958b\u652f\u63f4\u4e8b\u696d\u8cbb\u88dc\u52a9\u91d1\uff08\u6d77\u5916\u51fa\u9858\u652f\u63f4\u4e8b\u696d\uff09", "position": 21, "url": "https://kento20020.github.io/subsidy-aggregator/subsidies/jgrants-S-00009029.html"}, {"@type": "ListItem", "name": "\u3010\u8fb2\u6797\u6c34\u7523\u7701\u3011\u98df\u54c1\u7b49\u7269\u6d41\u5408\u7406\u5316\u7dca\u6025\u5bfe\u7b56\u4e8b\u696d\u306e\u3046\u3061\u8f38\u51fa\u7269\u6d41\u69cb\u7bc9\u4e8b\u696d\uff08\u9593\u63a5\u88dc\u52a9\u4e8b\u696d\u8005\u516c\u52df\uff09", "position": 22, "url": "https://kento20020.github.io/subsidy-aggregator/subsidies/jgrants-S-00009015.html"}, {"@type": "ListItem", "name": "\u3010\u8fb2\u6797\u6c34\u7523\u7701\u3011\u98df\u54c1\u7b49\u7269\u6d41\u5408\u7406\u5316\u7dca\u6025\u5bfe\u7b56\u4e8b\u696d\u306e\u3046\u3061\u7269\u6d41\u751f\u7523\u6027\u5411\u4e0a\u63a8\u9032\u4e8b\u696d\uff08\u9593\u63a5\u88dc\u52a9\u4e8b\u696d\u8005\u516c\u52df\uff09", "position": 23, "url": "https://kento20020.github.io/subsidy-aggregator/subsidies/jgrants-S-00009014.html"}, {"@type": "ListItem", "name": "\u4ee4\u548c8\u5e74\u5ea6\u30102\u5e74\u76ee\u7533\u8acb\u7528\u3011ES\uff08\u793e\u54e1\u6e80\u8db3\u5ea6\uff09\u5411\u4e0a\u306b\u3088\u308b\u82e5\u624b\u4eba\u6750\u78ba\u4fdd\u30fb\u5b9a\u7740\u4e8b\u696d\u52a9\u6210\u91d1", "position": 24, "url": "https://kento20020.github.io/subsidy-aggregator/subsidies/jgrants-S-00009011.html"}, {"@type": "ListItem", "name": "\u4ee4\u548c8\u5e74\u5ea6\u30103\u5e74\u76ee\u7533\u8acb\u7528\u3011ES\uff08\u793e\u54e1\u6e80\u8db3\u5ea6\uff09\u5411\u4e0a\u306b\u3088\u308b\u82e5\u624b\u4eba\u6750\u78ba\u4fdd\u30fb\u5b9a\u7740\u4e8b\u696d\u52a9\u6210\u91d1", "position": 25, "url": "https://kento20020.github.io/subsidy-aggregator/subsidies/jgrants-S-00009009.html"}, {"@type": "ListItem", "name": "\u3010\u5343\u8449\u770c\u3011\u4ee4\u548c\uff18\u5e74\u5ea6\u300c\u4e2d\u5c0f\u4f01\u696d\u7b49\u6d77\u5916\u5c55\u958b\u652f\u63f4\u4e8b\u696d\u8cbb\u88dc\u52a9\u91d1\uff08\u6d77\u5916\u51fa\u9858\u652f\u63f4\u4e8b\u696d\uff09\u300d", "position": 26, "url": "https://kento20020.github.io/subsidy-aggregator/subsidies/jgrants-S-00008999.html"}, {"@type": "ListItem", "name": "\u3010\u7d4c\u6e08\u7523\u696d\u7701\u3011\u3082\u306e\u3065\u304f\u308a\u30fb\u5546\u696d\u30fb\u30b5\u30fc\u30d3\u30b9\u751f\u7523\u6027\u5411\u4e0a\u4fc3\u9032\u88dc\u52a9\u91d1\uff0822\u6b21\u7de0\u5207\uff09", "position": 27, "url": "https://kento20020.github.io/subsidy-aggregator/subsidies/jgrants-S-00008989.html"}, {"@type": "ListItem", "name": "\u4ee4\u548c8\u5e74\u5ea6\u300cGX\u6226\u7565\u5730\u57df\u5236\u5ea6\u306b\u304a\u3051\u308b\u30b3\u30f3\u30d3\u30ca\u30fc\u30c8\u7b49\u518d\u751f\u306b\u5411\u3051\u305f \u4e8b\u696d\u5316\u4fc3\u9032\u4e8b\u696d\u300d\u306b\u4fc2\u308b\u9593\u63a5\u88dc\u52a9\u4e8b\u696d\u8005\u306e\u516c\u52df", "position": 28, "url": "https://kento20020.github.io/subsidy-aggregator/subsidies/jgrants-S-00008982.html"}, {"@type": "ListItem", "name": "\u3010\u4ee4\u548c\uff18\u5e74\u5ea6\u5f53\u521d\u3011\u56fd\u7acb\u516c\u5712\u7b49\u591a\u8a00\u8a9e\u89e3\u8aac\u7b49\u6574\u5099\u4e8b\u696d\uff08\u56fd\u7acb\u516c\u5712\u7b49\u8cc7\u6e90\u6574\u5099\u4e8b\u696d\u8cbb\u88dc\u52a9\u91d1\uff09", "position": 29, "url": "https://kento20020.github.io/subsidy-aggregator/subsidies/jgrants-S-00008981.html"}, {"@type": "ListItem", "name": "\u3010\u4e8b\u524d\u7740\u624b\u5c4a\u51fa\u3011\u4ee4\u548c\uff18\u5e74\u5ea6GX\u6226\u7565\u5730\u57df\u5236\u5ea6\u306b\u304a\u3051\u308b\u30b3\u30f3\u30d3\u30ca\u30fc\u30c8\u7b49\u518d\u751f\u306b\u5411\u3051\u305f\u4e8b\u696d\u5316\u4fc3\u9032\u4e8b\u696d\uff08\u30b3\u30f3\u30d3\u30ca\u30fc\u30c8\u7b49\u518d\u751fPre-FEED\u88dc\u52a9\u91d1\uff09", "position": 30, "url": "https://kento20020.github.io/subsidy-aggregator/subsidies/jgrants-S-00008980.html"}, {"@type": "ListItem", "name": "\u798f\u5cf6\u770c\u4e2d\u5c0f\u4f01\u696d\u7279\u5225\u9ad8\u5727\u96fb\u6c17\u6599\u91d1\u652f\u63f4\u88dc\u52a9\u91d1", "position": 31, "url": "https://kento20020.github.io/subsidy-aggregator/subsidies/jgrants-S-00008971.html"}, {"@type": "ListItem", "name": "2026\u5e74\u5ea6\u300c\u6d77\u5916\u51fa\u9858\u652f\u63f4\u4e8b\u696d\u300d", "position": 32, "url": "https://kento20020.github.io/subsidy-aggregator/subsidies/jgrants-S-00008969.html"}, {"@type": "ListItem", "name": "\u53e4\u8cc0\u5e02\u4e2d\u5c0f\u4f01\u696d\u7b49\u5411\u3051\u592a\u967d\u5149\u767a\u96fb\u8a2d\u5099\u5c0e\u5165\u88dc\u52a9\u91d1", "position": 33, "url": "https://kento20020.github.io/subsidy-aggregator/subsidies/jgrants-S-00008944.html"}, {"@type": "ListItem", "name": "\u53e4\u8cc0\u5e02\u6e29\u5ba4\u52b9\u679c\u30ac\u30b9\u6392\u51fa\u91cf\u53ef\u8996\u5316\u30b7\u30b9\u30c6\u30e0\u5c0e\u5165\u8cbb\u88dc\u52a9\u91d1", "position": 34, "url": "https://kento20020.github.io/subsidy-aggregator/subsidies/jgrants-S-00008943.html"}, {"@type": "ListItem", "name": "\u3010\u611b\u77e5\u770c\u3011\u4ee4\u548c\uff18\u5e74\u5ea6_\u4e2d\u5c0f\u4f01\u696d\u7b49\u6d77\u5916\u5c55\u958b\u652f\u63f4\u4e8b\u696d\u8cbb\u88dc\u52a9\u91d1\uff08\u6d77\u5916\u51fa\u9858\u652f\u63f4\u4e8b\u696d\uff09", "position": 35, "url": "https://kento20020.github.io/subsidy-aggregator/subsidies/jgrants-S-00008921.html"}, {"@type": "ListItem", "name": "\u4ee4\u548c\uff18\u5e74\u5ea6\u30d8\u30eb\u30b9\u30b1\u30a2\u7523\u696d\u56fd\u969b\u5c55\u958b\u63a8\u9032\u4e8b\u696d\u8cbb\u88dc\u52a9\u91d1", "position": 36, "url": "https://kento20020.github.io/subsidy-aggregator/subsidies/jgrants-S-00008920.html"}, {"@type": "ListItem", "name": "\u3010\u5948\u826f\u770c\u5730\u57df\u7523\u696d\u632f\u8208\u30bb\u30f3\u30bf\u30fc\u3011\u4ee4\u548c8\u5e74\u5ea6_\u4e2d\u5c0f\u4f01\u696d\u7b49\u6d77\u5916\u5c55\u958b\u652f\u63f4\u4e8b\u696d\u8cbb\u88dc\u52a9\u91d1\uff08\u6d77\u5916\u51fa\u9858\u652f\u63f4\u4e8b\u696d\uff09", "position": 37, "url": "https://kento20020.github.io/subsidy-aggregator/subsidies/jgrants-S-00008919.html"}, {"@type": "ListItem", "name": "\u3010\u798f\u5ca1\u770c\u3011\u4ee4\u548c8\u5e74\u5ea6_\u4e2d\u5c0f\u4f01\u696d\u7b49\u6d77\u5916\u5c55\u958b\u652f\u63f4\u4e8b\u696d\u8cbb\u88dc\u52a9\u91d1\uff08\u6d77\u5916\u51fa\u9858\u652f\u63f4\u4e8b\u696d\uff09", "position": 38, "url": "https://kento20020.github.io/subsidy-aggregator/subsidies/jgrants-S-00008918.html"}, {"@type": "ListItem", "name": "\u3010\u4ee4\u548c\uff18\u5e74\u5ea6\u5f53\u521d\u3011\u56fd\u7acb\u516c\u5712\u7b49\u5229\u7528\u62e0\u70b9\u6ede\u5728\u74b0\u5883\u7b49\u4e0a\u8cea\u5316\u4e8b\u696d\uff08\u56fd\u7acb\u516c\u5712\u7b49\u8cc7\u6e90\u6574\u5099\u4e8b\u696d\u8cbb\u88dc\u52a9\u91d1\uff09", "position": 39, "url": "https://kento20020.github.io/subsidy-aggregator/subsidies/jgrants-S-00008910.html"}, {"@type": "ListItem", "name": "\u3084\u307e\u3050\u3061\u81ea\u52d5\u8eca\u7523\u696d\u96fb\u52d5\u5316\u30a4\u30ce\u30d9\u30fc\u30b7\u30e7\u30f3\u7b49\u4fc3\u9032\u88dc\u52a9\u91d1", "position": 40, "url": "https://kento20020.github.io/subsidy-aggregator/subsidies/jgrants-S-00008905.html"}, {"@type": "ListItem", "name": "\u3084\u307e\u3050\u3061\u81ea\u52d5\u8eca\u7523\u696d\u96fb\u52d5\u5316\u30a4\u30ce\u30d9\u30fc\u30b7\u30e7\u30f3\u7b49\u4fc3\u9032\u88dc\u52a9\u91d1", "position": 41, "url": "https://kento20020.github.io/subsidy-aggregator/subsidies/jgrants-S-00008904.html"}, {"@type": "ListItem", "name": "\u3010\u5c90\u961c\u770c\u3011\u4ee4\u548c\uff18\u5e74\u5ea6_\u4e2d\u5c0f\u4f01\u696d\u7b49\u6d77\u5916\u5c55\u958b\u652f\u63f4\u4e8b\u696d\u8cbb\u88dc\u52a9\u91d1\uff08\u6d77\u5916\u51fa\u9858\u652f\u63f4\u4e8b\u696d\uff09", "position": 42, "url": "https://kento20020.github.io/subsidy-aggregator/subsidies/jgrants-S-00008888.html"}, {"@type": "ListItem", "name": "\u4ee4\u548c\uff18\u5e74\u5ea6 \u6c34\u529b\u767a\u96fb\u5c0e\u5165\u4fc3\u9032\u652f\u63f4\u4e8b\u696d\u8cbb\u88dc\u52a9\u91d1\uff08\u65e2\u5b58\u8a2d\u5099\u6709\u52b9\u6d3b\u7528\u5f37\u5316\u652f\u63f4\u4e8b\u696d\uff09\u516c\u52df", "position": 43, "url": "https://kento20020.github.io/subsidy-aggregator/subsidies/jgrants-S-00008881.html"}, {"@type": "ListItem", "name": "\u4ee4\u548c\uff18\u5e74\u5ea6\u56fd\u969b\u30eb\u30fc\u30eb\u5f62\u6210\u30fb\u5e02\u5834\u5275\u9020\u578b\u6a19\u6e96\u5316\u63a8\u9032\u4e8b\u696d\u8cbb\u88dc\u52a9\u91d1", "position": 44, "url": "https://kento20020.github.io/subsidy-aggregator/subsidies/jgrants-S-00008879.html"}, {"@type": "ListItem", "name": "\u3010\u9759\u5ca1\u770c\u3011\u4ee4\u548c8\u5e74\u5ea6_\u4e2d\u5c0f\u4f01\u696d\u7b49\u6d77\u5916\u5c55\u958b\u652f\u63f4\u4e8b\u696d\u8cbb\u88dc\u52a9\u91d1\uff08\u6d77\u5916\u51fa\u9858\u652f\u63f4\u4e8b\u696d\uff09", "position": 45, "url": "https://kento20020.github.io/subsidy-aggregator/subsidies/jgrants-S-00008876.html"}, {"@type": "ListItem", "name": "\u4ee4\u548c\uff18\u5e74\u5ea6\u300c\u6c34\u529b\u767a\u96fb\u5c0e\u5165\u4fc3\u9032\u652f\u63f4\u4e8b\u696d\u8cbb\u88dc\u52a9\u91d1\uff08\u4e8b\u696d\u6027\u8a55\u4fa1\u652f\u63f4\u4e8b\u696d\uff09\u300d\uff08\u65b0\u898f\u4e8b\u696d \uff11\u6b21\u7de0\u5207\u5206\uff09", "position": 46, "url": "https://kento20020.github.io/subsidy-aggregator/subsidies/jgrants-S-00008874.html"}, {"@type": "ListItem", "name": "\u4ee4\u548c\uff18\u5e74\u5ea6\u7cbe\u795e\u79d1\u533b\u7642\u4f53\u5236\u78ba\u4fdd\u7814\u4fee\u4e8b\u696d\u8cbb\u88dc\u52a9\u91d1", "position": 47, "url": "https://kento20020.github.io/subsidy-aggregator/subsidies/jgrants-S-00008872.html"}, {"@type": "ListItem", "name": "\u5317\u4e5d\u5dde\u5e02\u74b0\u5883\u672a\u6765\u30d3\u30b8\u30cd\u30b9\u5275\u51fa\u52a9\u6210\u91d1", "position": 48, "url": "https://kento20020.github.io/subsidy-aggregator/subsidies/jgrants-S-00008861.html"}, {"@type": "ListItem", "name": "\u4ee4\u548c\uff18\u5e74\u5ea6\u30b9\u30dd\u30fc\u30c4\u30a8\u30f3\u30bf\u30fc\u30c6\u30a4\u30f3\u30e1\u30f3\u30c8\u30fb\u30b3\u30f3\u30c6\u30f3\u30c4\u6d77\u5916\u5c55\u958b\u652f\u63f4\u4e8b\u696d\u8cbb\u88dc\u52a9\u91d1", "position": 49, "url": "https://kento20020.github.io/subsidy-aggregator/subsidies/jgrants-S-00008855.html"}, {"@type": "ListItem", "name": "\u4ee4\u548c\uff18\u5e74\u5ea6 \u30b3\u30fc\u30eb\u30c9\u30c1\u30a7\u30fc\u30f3\u3092\u652f\u3048\u308b\u51b7\u51cd\u51b7\u8535\u6a5f\u5668\u306e\u8131\u30d5\u30ed\u30f3\u30fb\u8131\u70ad\u7d20\u5316\u63a8\u9032\u4e8b\u696d", "position": 50, "url": "https://kento20020.github.io/subsidy-aggregator/subsidies/jgrants-S-00008854.html"}], "name": "\u88dc\u52a9\u91d1\u307e\u3068\u3081 \u88dc\u52a9\u91d1\u4e00\u89a7", "numberOfItems": 50}]}</script>
 </head>
 <body>
   <a class="skip-link" href="#main-content">本文へスキップ</a>
@@ -38,7 +38,8 @@
   <main class="site-main" id="main-content" tabindex="-1">
 <section class="intro">
   <h1>補助金まとめ</h1>
-  <p>jGrants の公募中補助金 <strong>50</strong> 件を毎日自動更新中。</p>
+  <p class="tagline"><strong>使える補助金、見逃さない。</strong></p>
+  <p>jGrants の公募中補助金 <strong>50</strong> 件を AI が「対象・経費・書類・警告」で整理。中小企業の経営者・事業主が、本文を読まずに「うちで使えるか」を判定できます。</p>
 </section>
 
 <section class="filters" aria-label="絞り込み">

diff --git a/docs/style.css b/docs/style.css
@@ -59,6 +59,13 @@ a:hover { text-decoration: underline; }
 
 .intro h1 { margin-bottom: 0.25em; }
 .intro p { color: var(--c-muted); }
+.intro .tagline {
+  font-size: 1.15rem;
+  color: var(--c-accent);
+  margin: 4px 0 12px 0;
+  letter-spacing: 0.02em;
+}
+.intro .tagline strong { color: var(--c-accent); }
 
 .filters {
   background: #fff;

diff --git a/docs/404.html b/docs/404.html
@@ -13,14 +13,14 @@
   <meta property="og:type" content="website">
   <meta property="og:site_name" content="補助金まとめ">
   <meta property="og:title" content="ページが見つかりません | 補助金まとめ">
-  <meta property="og:description" content="公募中の補助金をAIで要点抽出してまとめた、広告なし・会員登録不要のサイト。毎朝8時自動更新。">
+  <meta property="og:description" content="使える補助金、見逃さない。中小企業の経営者・事業主向けに公募中の補助金を AI が「対象/経費/書類/警告」で構造化。広告・会員登録なし。">
   <meta property="og:url" content="https://kento20020.github.io/subsidy-aggregator/404.html">
   <meta property="og:image" content="https://kento20020.github.io/subsidy-aggregator/og.png">
   <meta property="og:locale" content="ja_JP">
 
   <meta name="twitter:card" content="summary_large_image">
   <meta name="twitter:title" content="ページが見つかりません | 補助金まとめ">
-  <meta name="twitter:description" content="公募中の補助金をAIで要点抽出してまとめた、広告なし・会員登録不要のサイト。毎朝8時自動更新。">
+  <meta name="twitter:description" content="使える補助金、見逃さない。中小企業の経営者・事業主向けに公募中の補助金を AI が「対象/経費/書類/警告」で構造化。広告・会員登録なし。">
   <meta name="twitter:image" content="https://kento20020.github.io/subsidy-aggregator/og.png">
 
   <link rel="stylesheet" href="style.css">

diff --git a/docs/privacy.html b/docs/privacy.html
@@ -13,14 +13,14 @@
   <meta property="og:type" content="website">
   <meta property="og:site_name" content="補助金まとめ">
   <meta property="og:title" content="プライバシーポリシー | 補助金まとめ">
-  <meta property="og:description" content="公募中の補助金をAIで要点抽出してまとめた、広告なし・会員登録不要のサイト。毎朝8時自動更新。">
+  <meta property="og:description" content="使える補助金、見逃さない。中小企業の経営者・事業主向けに公募中の補助金を AI が「対象/経費/書類/警告」で構造化。広告・会員登録なし。">
   <meta property="og:url" content="https://kento20020.github.io/subsidy-aggregator/privacy.html">
   <meta property="og:image" content="https://kento20020.github.io/subsidy-aggregator/og.png">
   <meta property="og:locale" content="ja_JP">
 
   <meta name="twitter:card" content="summary_large_image">
   <meta name="twitter:title" content="プライバシーポリシー | 補助金まとめ">
-  <meta name="twitter:description" content="公募中の補助金をAIで要点抽出してまとめた、広告なし・会員登録不要のサイト。毎朝8時自動更新。">
+  <meta name="twitter:description" content="使える補助金、見逃さない。中小企業の経営者・事業主向けに公募中の補助金を AI が「対象/経費/書類/警告」で構造化。広告・会員登録なし。">
   <meta name="twitter:image" content="https://kento20020.github.io/subsidy-aggregator/og.png">
 
   <link rel="stylesheet" href="style.css">

diff --git a/tools/gen_ogp.py b/tools/gen_ogp.py
@@ -18,11 +18,11 @@ ACCENT = (255, 255, 255)
 SUB = (200, 220, 240)
 
 TITLE = "補助金まとめ"
-TAGLINE = "読まずに判断できる、公募中の補助金"
+TAGLINE = "使える補助金、見逃さない"
 BULLETS = [
-    "✓ AIが本文から要点を抽出",
+    "✓ 中小企業向けに AI が要点抽出",
     "✓ 広告なし・会員登録不要",
-    "✓ 毎朝8時に自動更新",
+    "✓ 毎日新着データを取得・整理",
 ]
 
 # 日本語フォント候補（Windows / macOS / Linux）

diff --git a/scraper/config.py b/scraper/config.py
@@ -34,4 +34,4 @@ WORKER_URL = "https://subsidy-interpret.kento-dev.workers.dev/interpret"
 # OGP / SNS 共有用のサイトベースURL (末尾スラなし)
 SITE_URL = "https://kento20020.github.io/subsidy-aggregator"
 SITE_NAME = "補助金まとめ"
-SITE_DESCRIPTION = "公募中の補助金をAIで要点抽出してまとめた、広告なし・会員登録不要のサイト。毎朝8時自動更新。"
+SITE_DESCRIPTION = "使える補助金、見逃さない。中小企業の経営者・事業主向けに公募中の補助金を AI が「対象/経費/書類/警告」で構造化。広告・会員登録なし。"